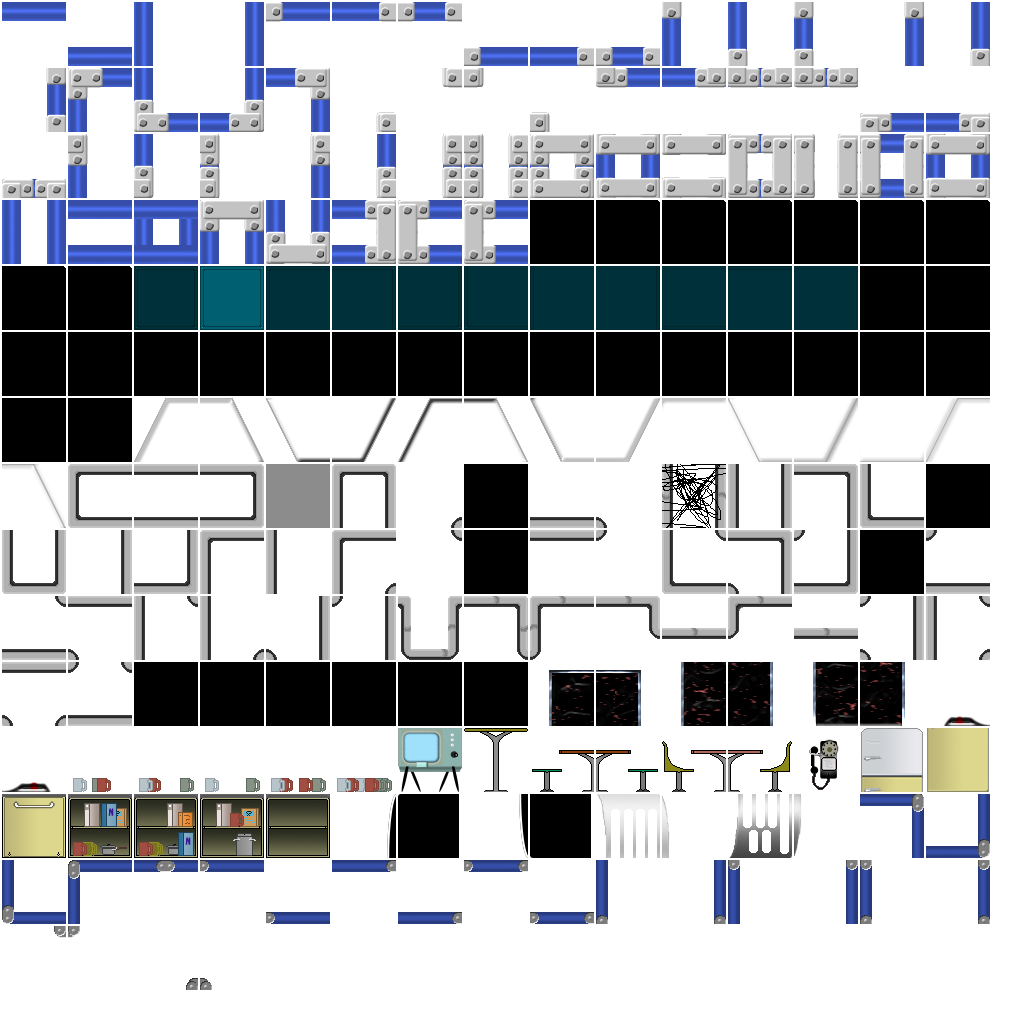
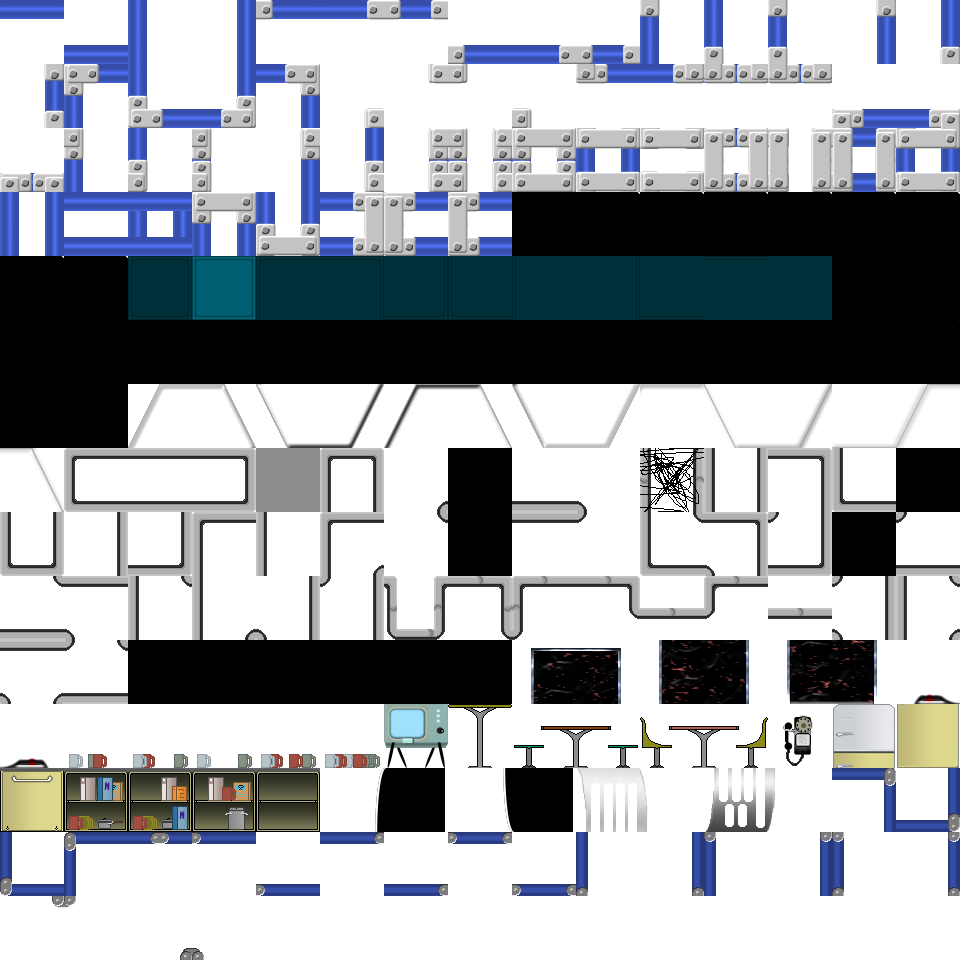
Fixes up kitchen tiles, kitchen1, lobby + trigger

diff --git a/lib/game/levels/lobby1.js b/lib/game/levels/lobby1.js
@@ -1,6 +1,6 @@
 ig.module( 'game.levels.lobby1' )
 .requires('impact.image','game.entities.player','game.entities.levelexit','game.entities.levelexit','game.entities.levelexit','game.entities.levelexit','game.entities.hurt','game.entities.trigger','game.entities.trigger','game.entities.trigger','game.entities.levelexit','game.entities.infobox','game.entities.infobox','game.entities.infobox','game.entities.infobox','game.entities.levelexit')
 .defines(function(){
-LevelLobby1=/*JSON[*/{"entities":[{"type":"EntityPlayer","x":192,"y":512},{"type":"EntityLevelexit","x":2240,"y":544,"settings":{"level":31,"size":{"x":32,"y":32}}},{"type":"EntityLevelexit","x":640,"y":544,"settings":{"level":"kitchen1","size":{"x":32,"y":32}}},{"type":"EntityLevelexit","x":1540,"y":544,"settings":{"level":21,"size":{"x":32,"y":32}}},{"type":"EntityLevelexit","x":3008,"y":1184,"settings":{"size":{"x":32,"y":32},"level":"lobby1"}},{"type":"EntityHurt","x":1496,"y":824,"settings":{"name":"pitkill"}},{"type":"EntityTrigger","x":1856,"y":576,"settings":{"size":{"x":128,"y":640},"target":{"1":"pitkill"}}},{"type":"EntityTrigger","x":3136,"y":576,"settings":{"size":{"x":128,"y":640},"target":{"1":"pitkill"}}},{"type":"EntityTrigger","x":1024,"y":576,"settings":{"size":{"x":256,"y":640},"target":{"1":"pitkill"}}},{"type":"EntityLevelexit","x":128,"y":544,"settings":{"level":"lab3","size":{"x":32,"y":32}}},{"type":"EntityInfobox","x":2752,"y":320,"settings":{"size":{"x":320,"y":256},"text":"Level 3"}},{"type":"EntityInfobox","x":512,"y":320,"settings":{"size":{"x":320,"y":256},"text":"Mess Hall"}},{"type":"EntityInfobox","x":1408,"y":320,"settings":{"size":{"x":320,"y":256},"text":"Weapons Testing"}},{"type":"EntityInfobox","x":2112,"y":320,"settings":{"size":{"x":320,"y":256},"text":"Level 2"}},{"type":"EntityLevelexit","x":2888,"y":544,"settings":{"size":{"x":32,"y":32}}}],"layer":[{"name":"main","width":60,"height":20,"linkWithCollision":false,"visible":1,"tilesetName":"media/lab-tiles.png","repeat":false,"preRender":false,"distance":"1","tilesize":64,"foreground":false,"data":[[1,2,2,2,2,2,2,2,2,2,2,2,2,2,2,2,2,2,2,3,0,0,0,0,0,0,0,0,0,0,0,0,0,0,0,0,0,0,0,0,0,0,0,0,0,0,0,0,0,0,0,0,0,0,0,0,0,0,0,0],[17,6,6,6,6,6,6,6,6,6,6,6,6,6,6,6,6,6,6,6,6,6,6,6,6,6,6,6,6,6,6,6,6,6,6,6,6,6,6,6,6,6,6,6,6,6,6,6,6,6,6,6,6,6,6,6,6,6,6,0],[17,6,6,6,6,6,6,6,6,6,6,6,6,6,6,6,6,6,6,6,6,6,6,6,6,6,6,6,6,6,6,6,6,6,6,6,6,6,6,6,6,6,6,6,6,6,6,6,6,6,6,6,6,6,6,6,6,6,6,0],[17,6,6,6,6,6,6,6,6,6,6,6,6,6,6,6,6,6,6,6,6,6,6,6,6,6,6,6,6,6,6,6,6,6,6,6,6,6,6,6,6,6,6,6,6,6,6,6,6,6,6,6,6,6,6,6,6,6,6,0],[17,6,6,6,6,6,6,6,6,6,6,6,6,6,6,6,6,6,6,6,6,6,6,6,6,6,6,6,6,6,6,6,6,6,6,6,6,6,6,6,6,6,6,6,6,6,6,6,6,6,6,6,6,6,6,6,6,6,6,0],[17,6,6,6,6,6,6,6,6,6,6,6,6,6,6,6,6,6,6,6,6,6,6,6,6,6,6,6,6,6,6,6,6,6,6,6,6,6,6,6,6,6,6,6,6,6,6,6,6,6,6,6,6,6,6,6,6,6,6,0],[17,6,6,6,6,6,6,6,6,6,6,6,6,6,6,6,6,6,6,6,6,6,6,6,6,6,6,6,6,6,6,6,6,6,6,6,6,6,6,6,6,6,6,6,6,6,6,6,6,6,6,6,6,6,6,6,6,6,6,0],[17,6,6,6,6,6,6,6,6,6,6,6,6,6,6,6,6,6,6,6,6,6,6,6,6,6,6,6,6,6,6,6,6,6,6,6,6,6,6,6,6,6,6,6,6,6,6,6,6,6,6,6,6,6,6,6,6,6,6,0],[17,6,6,6,6,6,6,6,6,6,6,6,6,6,6,6,6,6,6,6,6,6,6,6,6,6,6,6,6,6,6,6,6,6,6,6,6,6,6,6,6,6,6,6,6,6,6,6,6,6,6,6,6,6,6,6,6,6,6,0],[33,34,34,34,34,34,34,34,34,34,34,34,34,34,34,34,6,6,6,6,34,34,34,34,34,34,34,34,34,6,6,0,0,0,0,0,0,0,0,33,6,6,0,0,0,0,0,0,33,6,6,0,0,0,0,0,0,0,0,0],[0,0,0,0,0,0,0,0,0,0,0,0,0,0,0,0,6,6,6,6,0,0,0,0,0,0,0,0,0,6,6,0,0,0,0,0,0,0,0,17,6,6,0,0,0,0,0,0,17,6,6,0,0,0,0,0,0,0,0,0],[0,0,0,0,0,0,0,0,0,0,0,0,0,0,0,0,6,6,6,6,0,0,0,0,0,0,0,0,0,6,6,0,0,0,0,0,0,0,0,17,6,6,0,0,0,0,0,0,17,6,6,0,0,0,0,0,0,0,0,0],[0,0,0,0,0,0,0,0,0,0,0,0,0,0,0,0,6,6,6,6,0,0,0,0,0,0,0,0,0,6,6,0,0,0,0,0,0,0,0,17,6,6,0,0,0,0,0,0,17,6,6,0,0,0,0,0,0,0,0,0],[0,0,0,0,0,0,0,0,0,0,0,0,0,0,0,0,6,6,6,6,0,0,0,0,0,0,0,0,0,6,6,0,0,0,0,0,0,0,0,17,6,6,0,0,0,0,0,0,17,6,6,0,0,0,0,0,0,0,0,0],[0,0,0,0,0,0,0,0,0,0,0,0,0,0,0,0,6,6,6,6,0,0,0,0,0,0,0,0,0,6,6,0,0,0,0,0,0,0,0,17,6,6,0,0,0,0,0,0,17,6,6,0,0,0,0,0,0,0,0,0],[0,0,0,0,0,0,0,0,0,0,0,0,0,0,0,0,6,6,6,6,0,0,0,0,0,0,0,0,0,6,6,0,0,0,0,0,0,0,0,17,6,6,0,0,0,0,0,0,17,6,6,0,0,0,0,0,0,0,0,0],[0,0,0,0,0,0,0,0,0,0,0,0,0,0,0,0,6,6,6,6,0,0,0,0,0,0,0,0,0,6,6,0,0,0,0,0,0,0,0,17,6,6,0,0,0,0,0,0,17,6,6,0,0,0,0,0,0,0,0,0],[0,0,0,0,0,0,0,0,0,0,0,0,0,0,0,0,6,6,6,6,0,0,0,0,0,0,0,0,0,6,6,0,0,0,0,0,0,0,0,17,6,6,6,6,6,6,6,6,17,6,6,0,0,0,0,0,0,0,0,0],[0,0,0,0,0,0,0,0,0,0,0,0,0,0,0,0,6,6,6,6,0,0,0,0,0,0,0,0,0,6,6,0,0,0,0,0,0,0,0,17,6,6,6,6,6,6,6,6,17,6,6,0,0,0,0,0,0,0,0,0],[0,0,0,0,0,0,0,0,0,0,0,0,0,0,0,0,0,0,0,0,0,0,0,0,0,33,0,0,0,0,0,0,0,0,0,0,0,33,0,0,0,0,0,0,0,0,0,0,33,0,0,0,0,0,0,0,0,0,0,0]]},{"name":"collision","width":60,"height":20,"linkWithCollision":false,"visible":1,"tilesetName":"","repeat":false,"preRender":false,"distance":1,"tilesize":64,"foreground":false,"data":[[1,1,1,1,1,1,1,1,1,1,1,1,1,1,1,1,1,1,1,1,1,1,1,1,1,1,1,1,1,1,1,1,1,1,1,1,1,1,1,1,1,1,1,1,1,1,1,1,1,1,1,1,1,1,1,1,1,1,1,1],[1,0,0,0,0,0,0,0,0,0,0,0,0,0,0,0,0,0,0,0,0,0,0,0,0,0,0,0,0,0,0,0,0,0,0,0,0,0,0,0,0,0,0,0,0,0,0,0,0,0,0,0,0,0,0,0,0,0,0,1],[1,0,0,0,0,0,0,0,0,0,0,0,0,0,0,0,0,0,0,0,0,0,0,0,0,0,0,0,0,0,0,0,0,0,0,0,0,0,0,0,0,0,0,0,0,0,0,0,0,0,0,0,0,0,0,0,0,0,0,1],[1,0,0,0,0,0,0,0,0,0,0,0,0,0,0,0,0,0,0,0,0,0,0,0,0,0,0,0,0,0,0,0,0,0,0,0,0,0,0,0,0,0,0,0,0,0,0,0,0,0,0,0,0,0,0,0,0,0,0,1],[1,0,0,0,0,0,0,0,0,0,0,0,0,0,0,0,0,0,0,0,0,0,0,0,0,0,0,0,0,0,0,0,0,0,0,0,0,0,0,0,0,0,0,0,0,0,0,0,0,0,0,0,0,0,0,0,0,0,0,1],[1,0,0,0,0,0,0,0,0,0,0,0,0,0,0,0,0,0,0,0,0,0,0,0,0,0,0,0,0,0,0,0,0,0,0,0,0,0,0,0,0,0,0,0,0,0,0,0,0,0,0,0,0,0,0,0,0,0,0,1],[1,0,0,0,0,0,0,0,0,0,0,0,0,0,0,0,0,0,0,0,0,0,0,0,0,0,0,0,0,0,0,0,0,0,0,0,0,0,0,0,0,0,0,0,0,0,0,0,0,0,0,0,0,0,0,0,0,0,0,1],[1,0,0,0,0,0,0,0,0,0,0,0,0,0,0,0,0,0,0,0,0,0,0,0,0,0,0,0,0,0,0,0,0,0,0,0,0,0,0,0,0,0,0,0,0,0,0,0,0,0,0,0,0,0,0,0,0,0,0,1],[1,0,0,0,0,0,0,0,0,0,0,0,0,0,0,0,0,0,0,0,0,0,0,0,0,0,0,0,0,0,0,0,0,0,0,0,0,0,0,0,0,0,0,0,0,0,0,0,0,0,0,0,0,0,0,0,0,0,0,1],[1,1,1,1,1,1,1,1,1,1,1,1,1,1,1,1,0,0,0,0,1,1,1,1,1,1,1,1,1,0,0,1,1,1,1,1,1,1,1,1,0,0,1,1,1,1,1,1,1,0,0,1,1,1,1,1,1,1,1,1],[0,0,0,0,0,0,0,0,0,0,0,0,0,0,0,1,0,0,0,0,1,0,0,0,0,0,0,0,1,0,0,1,0,0,0,0,0,0,0,1,0,0,1,0,0,0,0,0,1,0,0,1,0,0,0,0,0,0,0,0],[0,0,0,0,0,0,0,0,0,0,0,0,0,0,0,1,0,0,0,0,1,0,0,0,0,0,0,0,1,0,0,1,0,0,0,0,0,0,0,1,0,0,1,0,0,0,0,0,1,0,0,1,0,0,0,0,0,0,0,0],[0,0,0,0,0,0,0,0,0,0,0,0,0,0,0,1,0,0,0,0,1,0,0,0,0,0,0,0,1,0,0,1,0,0,0,0,0,0,0,1,0,0,1,0,0,0,0,0,1,0,0,1,0,0,0,0,0,0,0,0],[0,0,0,0,0,0,0,0,0,0,0,0,0,0,0,1,0,0,0,0,1,0,0,0,0,0,0,0,1,0,0,1,0,0,0,0,0,0,0,1,0,0,1,0,0,0,0,0,1,0,0,1,0,0,0,0,0,0,0,0],[0,0,0,0,0,0,0,0,0,0,0,0,0,0,0,1,0,0,0,0,1,0,0,0,0,0,0,0,1,0,0,1,0,0,0,0,0,0,0,1,0,0,1,0,0,0,0,0,1,0,0,1,0,0,0,0,0,0,0,0],[0,0,0,0,0,0,0,0,0,0,0,0,0,0,0,1,0,0,0,0,1,0,0,0,0,0,0,0,1,0,0,1,0,0,0,0,0,0,0,1,0,0,1,0,0,0,0,0,1,0,0,1,0,0,0,0,0,0,0,0],[0,0,0,0,0,0,0,0,0,0,0,0,0,0,0,1,0,0,0,0,1,0,0,0,0,0,0,0,1,0,0,1,0,0,0,0,0,0,0,1,0,0,1,1,1,1,1,1,1,0,0,1,0,0,0,0,0,0,0,0],[0,0,0,0,0,0,0,0,0,0,0,0,0,0,0,1,0,0,0,0,1,0,0,0,0,0,0,0,1,0,0,1,0,0,0,0,0,0,0,1,0,0,0,0,0,0,0,0,1,0,0,1,0,0,0,0,0,0,0,0],[0,0,0,0,0,0,0,0,0,0,0,0,0,0,0,1,0,0,0,0,1,0,0,0,0,0,0,0,1,0,0,1,0,0,0,0,0,0,0,1,0,0,0,0,0,0,0,0,1,0,0,1,0,0,0,0,0,0,0,0],[0,0,0,0,0,0,0,0,0,0,0,0,0,0,0,1,1,1,1,1,1,0,0,0,0,0,0,0,1,1,1,1,0,0,0,0,0,0,0,1,1,1,1,1,1,1,1,1,1,1,1,1,0,0,0,0,0,0,0,0]]},{"name":"decoration","width":30,"height":20,"linkWithCollision":false,"visible":true,"tilesetName":"media/lab-tiles.png","repeat":false,"preRender":false,"distance":"1","tilesize":64,"foreground":false,"data":[[0,0,0,0,0,0,0,0,0,0,0,0,0,0,0,0,0,0,0,0,0,0,0,0,0,0,0,0,0,0],[0,0,0,0,0,0,0,0,0,0,0,0,0,0,0,0,0,0,0,0,0,0,0,0,0,0,0,0,0,0],[0,0,0,0,0,0,0,0,0,0,0,0,0,0,0,0,0,0,0,0,0,0,0,0,0,0,0,0,0,0],[0,0,0,0,0,0,0,0,0,0,0,0,0,0,0,0,0,0,0,0,0,0,0,0,0,0,0,0,0,0],[0,0,0,0,0,0,0,0,0,0,0,0,0,0,0,0,0,0,0,0,0,0,0,0,0,0,0,0,0,0],[0,0,0,0,0,0,0,0,0,0,0,0,0,0,0,0,0,0,0,0,0,0,0,0,0,0,0,0,0,0],[0,0,0,0,0,0,0,0,0,0,0,0,0,0,0,0,0,0,0,0,0,0,0,0,0,0,0,0,0,0],[0,0,0,0,0,0,0,0,0,0,0,0,0,0,0,0,0,0,0,0,0,0,0,0,0,0,0,0,0,0],[0,0,4,0,0,0,0,0,0,0,4,0,0,0,0,0,0,0,0,0,0,0,0,0,4,0,0,0,0,0],[0,0,0,0,0,0,0,0,0,0,0,0,0,0,0,0,0,0,0,0,0,0,0,0,0,0,0,0,0,0],[0,0,0,0,0,0,0,0,0,0,0,0,0,0,0,0,0,0,0,0,0,0,0,0,0,0,0,0,0,0],[0,0,0,0,0,0,0,0,0,0,0,0,0,0,0,0,0,0,0,0,0,0,0,0,0,0,0,0,0,0],[0,0,0,0,0,0,0,0,0,0,0,0,0,0,0,0,0,0,0,0,0,0,0,0,0,0,0,0,0,0],[0,0,0,0,0,0,0,0,0,0,0,0,0,0,0,0,0,0,0,0,0,0,0,0,0,0,0,0,0,0],[0,0,0,0,0,0,0,0,0,0,0,0,0,0,0,0,0,0,0,0,0,0,0,0,0,0,0,0,0,0],[0,0,0,0,0,0,0,0,0,0,0,0,0,0,0,0,0,0,0,0,0,0,0,0,0,0,0,0,0,0],[0,0,0,0,0,0,0,0,0,0,0,0,0,0,0,0,0,0,0,0,0,0,0,0,0,0,0,0,0,0],[0,0,0,0,0,0,0,0,0,0,0,0,0,0,0,0,0,0,0,0,0,0,0,0,0,0,0,0,0,0],[0,0,0,0,0,0,0,0,0,0,0,0,0,0,0,0,0,0,0,0,0,0,0,0,0,0,0,0,0,0],[0,0,0,0,0,0,0,0,0,0,0,0,0,0,0,0,0,0,0,0,0,0,0,0,0,0,0,0,0,0]]}]}/*]JSON*/;
+LevelLobby1=/*JSON[*/{"entities":[{"type":"EntityPlayer","x":212,"y":528},{"type":"EntityLevelexit","x":2240,"y":544,"settings":{"level":31,"size":{"x":32,"y":32}}},{"type":"EntityLevelexit","x":640,"y":544,"settings":{"level":"kitchen1","size":{"x":32,"y":32}}},{"type":"EntityLevelexit","x":1536,"y":544,"settings":{"level":21,"size":{"x":32,"y":32}}},{"type":"EntityLevelexit","x":3008,"y":1184,"settings":{"size":{"x":32,"y":32},"level":"lobby1"}},{"type":"EntityHurt","x":1496,"y":824,"settings":{"name":"pitkill"}},{"type":"EntityTrigger","x":1856,"y":768,"settings":{"size":{"x":128,"y":448},"target":{"1":"pitkill"}}},{"type":"EntityTrigger","x":3136,"y":768,"settings":{"size":{"x":128,"y":448},"target":{"1":"pitkill"}}},{"type":"EntityTrigger","x":1024,"y":768,"settings":{"size":{"x":256,"y":448},"target":{"1":"pitkill"}}},{"type":"EntityLevelexit","x":128,"y":544,"settings":{"level":"lab3","size":{"x":32,"y":32}}},{"type":"EntityInfobox","x":2752,"y":320,"settings":{"size":{"x":320,"y":256},"text":"Level 3"}},{"type":"EntityInfobox","x":512,"y":320,"settings":{"size":{"x":320,"y":256},"text":"Mess Hall"}},{"type":"EntityInfobox","x":1408,"y":320,"settings":{"size":{"x":320,"y":256},"text":"Weapons Testing"}},{"type":"EntityInfobox","x":2112,"y":320,"settings":{"size":{"x":320,"y":256},"text":"Level 2"}},{"type":"EntityLevelexit","x":2888,"y":544,"settings":{"size":{"x":32,"y":32}}}],"layer":[{"name":"main","width":60,"height":20,"linkWithCollision":false,"visible":1,"tilesetName":"media/lab-tiles.png","repeat":false,"preRender":false,"distance":"1","tilesize":64,"foreground":false,"data":[[1,2,2,2,2,2,2,2,2,2,2,2,2,2,2,2,2,2,2,3,0,0,0,0,0,0,0,0,0,0,0,0,0,0,0,0,0,0,0,0,0,0,0,0,0,0,0,0,0,0,0,0,0,0,0,0,0,0,0,0],[17,6,6,6,6,6,6,6,6,6,6,6,6,6,6,6,6,6,6,6,6,6,6,6,6,6,6,6,6,6,6,6,6,6,6,6,6,6,6,6,6,6,6,6,6,6,6,6,6,6,6,6,6,6,6,6,6,6,6,0],[17,6,6,6,6,6,6,6,6,6,6,6,6,6,6,6,6,6,6,6,6,6,6,6,6,6,6,6,6,6,6,6,6,6,6,6,6,6,6,6,6,6,6,6,6,6,6,6,6,6,6,6,6,6,6,6,6,6,6,0],[17,6,6,6,6,6,6,6,6,6,6,6,6,6,6,6,6,6,6,6,6,6,6,6,6,6,6,6,6,6,6,6,6,6,6,6,6,6,6,6,6,6,6,6,6,6,6,6,6,6,6,6,6,6,6,6,6,6,6,0],[17,6,6,6,6,6,6,6,6,6,6,6,6,6,6,6,6,6,6,6,6,6,6,6,6,6,6,6,6,6,6,6,6,6,6,6,6,6,6,6,6,6,6,6,6,6,6,6,6,6,6,6,6,6,6,6,6,6,6,0],[17,6,6,6,6,6,6,6,6,6,6,6,6,6,6,6,6,6,6,6,6,6,6,6,6,6,6,6,6,6,6,6,6,6,6,6,6,6,6,6,6,6,6,6,6,6,6,6,6,6,6,6,6,6,6,6,6,6,6,0],[17,6,6,6,6,6,6,6,6,6,6,6,6,6,6,6,6,6,6,6,6,6,6,6,6,6,6,6,6,6,6,6,6,6,6,6,6,6,6,6,6,6,6,6,6,6,6,6,6,6,6,6,6,6,6,6,6,6,6,0],[17,6,6,6,6,6,6,6,6,6,6,6,6,6,6,6,6,6,6,6,6,6,6,6,6,6,6,6,6,6,6,6,6,6,6,6,6,6,6,6,6,6,6,6,6,6,6,6,6,6,6,6,6,6,6,6,6,6,6,0],[17,6,6,6,6,6,6,6,6,6,6,6,6,6,6,6,6,6,6,6,6,6,6,6,6,6,6,6,6,6,6,6,6,6,6,6,6,6,6,6,6,6,6,6,6,6,6,6,6,6,6,6,6,6,6,6,6,6,6,0],[33,34,34,34,34,34,34,34,34,34,34,34,34,34,34,34,6,6,6,6,34,34,34,34,34,34,34,34,34,6,6,0,0,0,0,0,0,0,0,33,6,6,0,0,0,0,0,0,33,6,6,0,0,0,0,0,0,0,0,0],[0,0,0,0,0,0,0,0,0,0,0,0,0,0,0,0,6,6,6,6,0,0,0,0,0,0,0,0,0,6,6,0,0,0,0,0,0,0,0,17,6,6,0,0,0,0,0,0,17,6,6,0,0,0,0,0,0,0,0,0],[0,0,0,0,0,0,0,0,0,0,0,0,0,0,0,0,6,6,6,6,0,0,0,0,0,0,0,0,0,6,6,0,0,0,0,0,0,0,0,17,6,6,0,0,0,0,0,0,17,6,6,0,0,0,0,0,0,0,0,0],[0,0,0,0,0,0,0,0,0,0,0,0,0,0,0,0,6,6,6,6,0,0,0,0,0,0,0,0,0,6,6,0,0,0,0,0,0,0,0,17,6,6,0,0,0,0,0,0,17,6,6,0,0,0,0,0,0,0,0,0],[0,0,0,0,0,0,0,0,0,0,0,0,0,0,0,0,6,6,6,6,0,0,0,0,0,0,0,0,0,6,6,0,0,0,0,0,0,0,0,17,6,6,0,0,0,0,0,0,17,6,6,0,0,0,0,0,0,0,0,0],[0,0,0,0,0,0,0,0,0,0,0,0,0,0,0,0,6,6,6,6,0,0,0,0,0,0,0,0,0,6,6,0,0,0,0,0,0,0,0,17,6,6,0,0,0,0,0,0,17,6,6,0,0,0,0,0,0,0,0,0],[0,0,0,0,0,0,0,0,0,0,0,0,0,0,0,0,6,6,6,6,0,0,0,0,0,0,0,0,0,6,6,0,0,0,0,0,0,0,0,17,6,6,0,0,0,0,0,0,17,6,6,0,0,0,0,0,0,0,0,0],[0,0,0,0,0,0,0,0,0,0,0,0,0,0,0,0,6,6,6,6,0,0,0,0,0,0,0,0,0,6,6,0,0,0,0,0,0,0,0,17,6,6,0,0,0,0,0,0,17,6,6,0,0,0,0,0,0,0,0,0],[0,0,0,0,0,0,0,0,0,0,0,0,0,0,0,0,6,6,6,6,0,0,0,0,0,0,0,0,0,6,6,0,0,0,0,0,0,0,0,17,6,6,6,6,6,6,6,6,17,6,6,0,0,0,0,0,0,0,0,0],[0,0,0,0,0,0,0,0,0,0,0,0,0,0,0,0,6,6,6,6,0,0,0,0,0,0,0,0,0,6,6,0,0,0,0,0,0,0,0,17,6,6,6,6,6,6,6,6,17,6,6,0,0,0,0,0,0,0,0,0],[0,0,0,0,0,0,0,0,0,0,0,0,0,0,0,0,0,0,0,0,0,0,0,0,0,33,0,0,0,0,0,0,0,0,0,0,0,33,0,0,0,0,0,0,0,0,0,0,33,0,0,0,0,0,0,0,0,0,0,0]]},{"name":"collision","width":60,"height":20,"linkWithCollision":false,"visible":1,"tilesetName":"","repeat":false,"preRender":false,"distance":1,"tilesize":64,"foreground":false,"data":[[1,1,1,1,1,1,1,1,1,1,1,1,1,1,1,1,1,1,1,1,1,1,1,1,1,1,1,1,1,1,1,1,1,1,1,1,1,1,1,1,1,1,1,1,1,1,1,1,1,1,1,1,1,1,1,1,1,1,1,1],[1,0,0,0,0,0,0,0,0,0,0,0,0,0,0,0,0,0,0,0,0,0,0,0,0,0,0,0,0,0,0,0,0,0,0,0,0,0,0,0,0,0,0,0,0,0,0,0,0,0,0,0,0,0,0,0,0,0,0,1],[1,0,0,0,0,0,0,0,0,0,0,0,0,0,0,0,0,0,0,0,0,0,0,0,0,0,0,0,0,0,0,0,0,0,0,0,0,0,0,0,0,0,0,0,0,0,0,0,0,0,0,0,0,0,0,0,0,0,0,1],[1,0,0,0,0,0,0,0,0,0,0,0,0,0,0,0,0,0,0,0,0,0,0,0,0,0,0,0,0,0,0,0,0,0,0,0,0,0,0,0,0,0,0,0,0,0,0,0,0,0,0,0,0,0,0,0,0,0,0,1],[1,0,0,0,0,0,0,0,0,0,0,0,0,0,0,0,0,0,0,0,0,0,0,0,0,0,0,0,0,0,0,0,0,0,0,0,0,0,0,0,0,0,0,0,0,0,0,0,0,0,0,0,0,0,0,0,0,0,0,1],[1,0,0,0,0,0,0,0,0,0,0,0,0,0,0,0,0,0,0,0,0,0,0,0,0,0,0,0,0,0,0,0,0,0,0,0,0,0,0,0,0,0,0,0,0,0,0,0,0,0,0,0,0,0,0,0,0,0,0,1],[1,0,0,0,0,0,0,0,0,0,0,0,0,0,0,0,0,0,0,0,0,0,0,0,0,0,0,0,0,0,0,0,0,0,0,0,0,0,0,0,0,0,0,0,0,0,0,0,0,0,0,0,0,0,0,0,0,0,0,1],[1,0,0,0,0,0,0,0,0,0,0,0,0,0,0,0,0,0,0,0,0,0,0,0,0,0,0,0,0,0,0,0,0,0,0,0,0,0,0,0,0,0,0,0,0,0,0,0,0,0,0,0,0,0,0,0,0,0,0,1],[1,0,0,0,0,0,0,0,0,0,0,0,0,0,0,0,0,0,0,0,0,0,0,0,0,0,0,0,0,0,0,0,0,0,0,0,0,0,0,0,0,0,0,0,0,0,0,0,0,0,0,0,0,0,0,0,0,0,0,1],[1,1,1,1,1,1,1,1,1,1,1,1,1,1,1,1,0,0,0,0,1,1,1,1,1,1,1,1,1,0,0,1,1,1,1,1,1,1,1,1,0,0,1,1,1,1,1,1,1,0,0,1,1,1,1,1,1,1,1,1],[0,0,0,0,0,0,0,0,0,0,0,0,0,0,0,1,0,0,0,0,1,0,0,0,0,0,0,0,1,0,0,1,0,0,0,0,0,0,0,1,0,0,1,0,0,0,0,0,1,0,0,1,0,0,0,0,0,0,0,0],[0,0,0,0,0,0,0,0,0,0,0,0,0,0,0,1,0,0,0,0,1,0,0,0,0,0,0,0,1,0,0,1,0,0,0,0,0,0,0,1,0,0,1,0,0,0,0,0,1,0,0,1,0,0,0,0,0,0,0,0],[0,0,0,0,0,0,0,0,0,0,0,0,0,0,0,1,0,0,0,0,1,0,0,0,0,0,0,0,1,0,0,1,0,0,0,0,0,0,0,1,0,0,1,0,0,0,0,0,1,0,0,1,0,0,0,0,0,0,0,0],[0,0,0,0,0,0,0,0,0,0,0,0,0,0,0,1,0,0,0,0,1,0,0,0,0,0,0,0,1,0,0,1,0,0,0,0,0,0,0,1,0,0,1,0,0,0,0,0,1,0,0,1,0,0,0,0,0,0,0,0],[0,0,0,0,0,0,0,0,0,0,0,0,0,0,0,1,0,0,0,0,1,0,0,0,0,0,0,0,1,0,0,1,0,0,0,0,0,0,0,1,0,0,1,0,0,0,0,0,1,0,0,1,0,0,0,0,0,0,0,0],[0,0,0,0,0,0,0,0,0,0,0,0,0,0,0,1,0,0,0,0,1,0,0,0,0,0,0,0,1,0,0,1,0,0,0,0,0,0,0,1,0,0,1,0,0,0,0,0,1,0,0,1,0,0,0,0,0,0,0,0],[0,0,0,0,0,0,0,0,0,0,0,0,0,0,0,1,0,0,0,0,1,0,0,0,0,0,0,0,1,0,0,1,0,0,0,0,0,0,0,1,0,0,1,1,1,1,1,1,1,0,0,1,0,0,0,0,0,0,0,0],[0,0,0,0,0,0,0,0,0,0,0,0,0,0,0,1,0,0,0,0,1,0,0,0,0,0,0,0,1,0,0,1,0,0,0,0,0,0,0,1,0,0,0,0,0,0,0,0,1,0,0,1,0,0,0,0,0,0,0,0],[0,0,0,0,0,0,0,0,0,0,0,0,0,0,0,1,0,0,0,0,1,0,0,0,0,0,0,0,1,0,0,1,0,0,0,0,0,0,0,1,0,0,0,0,0,0,0,0,1,0,0,1,0,0,0,0,0,0,0,0],[0,0,0,0,0,0,0,0,0,0,0,0,0,0,0,1,1,1,1,1,1,0,0,0,0,0,0,0,1,1,1,1,0,0,0,0,0,0,0,1,1,1,1,1,1,1,1,1,1,1,1,1,0,0,0,0,0,0,0,0]]},{"name":"decoration","width":30,"height":20,"linkWithCollision":false,"visible":1,"tilesetName":"media/lab-tiles.png","repeat":false,"preRender":false,"distance":"1","tilesize":64,"foreground":false,"data":[[0,0,0,0,0,0,0,0,0,0,0,0,0,0,0,0,0,0,0,0,0,0,0,0,0,0,0,0,0,0],[0,0,0,0,0,0,0,0,0,0,0,0,0,0,0,0,0,0,0,0,0,0,0,0,0,0,0,0,0,0],[0,0,0,0,0,0,0,0,0,0,0,0,0,0,0,0,0,0,0,0,0,0,0,0,0,0,0,0,0,0],[0,0,0,0,0,0,0,0,0,0,0,0,0,0,0,0,0,0,0,0,0,0,0,0,0,0,0,0,0,0],[0,0,0,0,0,0,0,0,0,0,0,0,0,0,0,0,0,0,0,0,0,0,0,0,0,0,0,0,0,0],[0,0,0,0,0,0,0,0,0,0,0,0,0,0,0,0,0,0,0,0,0,0,0,0,0,0,0,0,0,0],[0,0,0,0,0,0,0,0,0,0,0,0,0,0,0,0,0,0,0,0,0,0,0,0,0,0,0,0,0,0],[0,0,0,0,0,0,0,0,0,0,0,0,0,0,0,0,0,0,0,0,0,0,0,0,0,0,0,0,0,0],[0,0,4,0,0,0,0,0,0,0,4,0,0,0,0,0,0,0,0,0,0,0,0,0,4,0,0,0,0,0],[0,0,0,0,0,0,0,0,0,0,0,0,0,0,0,0,0,0,0,0,0,0,0,0,0,0,0,0,0,0],[0,0,0,0,0,0,0,0,0,0,0,0,0,0,0,0,0,0,0,0,0,0,0,0,0,0,0,0,0,0],[0,0,0,0,0,0,0,0,0,0,0,0,0,0,0,0,0,0,0,0,0,0,0,0,0,0,0,0,0,0],[0,0,0,0,0,0,0,0,0,0,0,0,0,0,0,0,0,0,0,0,0,0,0,0,0,0,0,0,0,0],[0,0,0,0,0,0,0,0,0,0,0,0,0,0,0,0,0,0,0,0,0,0,0,0,0,0,0,0,0,0],[0,0,0,0,0,0,0,0,0,0,0,0,0,0,0,0,0,0,0,0,0,0,0,0,0,0,0,0,0,0],[0,0,0,0,0,0,0,0,0,0,0,0,0,0,0,0,0,0,0,0,0,0,0,0,0,0,0,0,0,0],[0,0,0,0,0,0,0,0,0,0,0,0,0,0,0,0,0,0,0,0,0,0,0,0,0,0,0,0,0,0],[0,0,0,0,0,0,0,0,0,0,0,0,0,0,0,0,0,0,0,0,0,0,0,0,0,0,0,0,0,0],[0,0,0,0,0,0,0,0,0,0,0,0,0,0,0,0,0,0,0,0,0,0,0,0,0,0,0,0,0,0],[0,0,0,0,0,0,0,0,0,0,0,0,0,0,0,0,0,0,0,0,0,0,0,0,0,0,0,0,0,0]]}]}/*]JSON*/;
 LevelLobby1Resources=[new ig.Image('media/lab-tiles.png'), new ig.Image('media/lab-tiles.png')];
 });

diff --git a/lib/game/levels/kitchen1.js b/lib/game/levels/kitchen1.js
@@ -1,6 +1,6 @@
 ig.module( 'game.levels.kitchen1' )
 .requires('impact.image','game.entities.player','game.entities.levelexit','game.entities.enemy-zombie','game.entities.enemy-zombie','game.entities.enemy-zombie','game.entities.levelexit')
 .defines(function(){
-LevelKitchen1=/*JSON[*/{"entities":[{"type":"EntityPlayer","x":100,"y":116},{"type":"EntityLevelexit","x":48,"y":80,"settings":{"level":"lobby1","size":{"x":64,"y":64}}},{"type":"EntityEnemyZombie","x":348,"y":130},{"type":"EntityEnemyZombie","x":416,"y":130},{"type":"EntityEnemyZombie","x":288,"y":130},{"type":"EntityLevelexit","x":544,"y":112,"settings":{"level":"kitchen2","size":{"x":32,"y":32}}}],"layer":[{"name":"main","width":40,"height":10,"linkWithCollision":false,"visible":1,"tilesetName":"media/kitchen-tiles.png","repeat":false,"preRender":false,"distance":"1","tilesize":16,"foreground":false,"data":[[22,22,22,22,22,22,22,22,22,22,22,22,22,22,22,22,22,22,22,22,22,22,22,22,22,22,22,22,22,22,22,22,22,22,22,22,22,22,22,22],[22,22,22,22,22,22,22,22,22,22,22,22,22,22,22,22,22,22,22,22,22,22,22,22,22,22,22,22,22,22,22,22,22,22,22,22,22,22,22,22],[22,22,21,21,21,21,21,21,21,21,21,21,21,21,21,21,21,21,21,21,21,21,21,21,21,21,21,21,21,21,21,21,21,21,21,21,21,21,22,22],[22,22,21,21,21,21,21,21,21,21,21,21,21,21,21,21,21,21,21,21,21,21,21,21,21,21,21,21,21,21,21,21,21,21,21,21,21,21,22,22],[22,22,21,21,21,21,21,21,21,21,21,21,21,21,21,21,21,21,21,21,21,21,21,21,21,21,21,21,21,21,21,21,21,21,21,21,21,21,22,22],[22,22,21,21,21,21,21,21,21,21,21,21,21,21,21,21,21,21,21,21,21,21,21,21,21,21,21,21,21,21,21,21,21,21,21,21,21,21,22,22],[22,22,21,21,21,21,21,21,21,21,21,21,21,21,21,21,21,21,21,21,21,21,21,21,21,21,21,21,21,21,21,21,21,21,21,21,21,21,22,22],[22,22,21,21,21,21,21,21,21,21,21,21,21,21,21,21,21,21,21,21,21,21,21,21,21,21,21,21,21,21,21,21,21,21,21,21,21,21,22,22],[22,22,21,21,21,21,21,21,21,21,21,21,21,21,21,21,21,21,21,21,21,21,21,21,21,21,21,21,21,21,21,21,21,21,21,21,21,21,22,22],[22,22,22,22,22,22,22,22,22,22,22,22,22,22,22,22,22,22,22,22,22,22,22,22,22,22,22,22,22,22,22,22,22,22,22,22,22,22,22,22]]},{"name":"collision","width":20,"height":10,"linkWithCollision":false,"visible":0,"tilesetName":"","repeat":false,"preRender":false,"distance":1,"tilesize":32,"foreground":false,"data":[[1,1,1,1,1,1,1,1,1,1,1,1,1,1,1,1,1,1,1,1],[1,0,0,0,0,0,0,0,0,0,0,0,0,0,0,0,0,0,0,1],[1,0,0,0,0,0,0,0,0,0,0,0,0,0,0,0,0,0,0,1],[1,0,0,0,0,0,0,0,0,0,0,0,0,0,0,0,0,0,0,1],[1,0,0,0,0,0,0,0,0,0,0,0,0,0,0,0,0,0,0,1],[1,0,0,0,0,0,0,0,0,0,0,0,0,0,0,0,0,0,0,1],[1,0,0,0,0,0,0,0,0,0,0,0,0,0,0,0,0,0,0,1],[1,0,0,0,0,0,0,0,0,0,0,0,0,0,0,0,0,0,0,1],[1,0,0,0,0,0,0,0,0,0,0,0,0,0,0,0,0,0,0,1],[1,1,1,1,1,1,1,1,1,1,1,1,1,1,1,1,1,1,1,1]]},{"name":"decoration","width":40,"height":10,"linkWithCollision":false,"visible":1,"tilesetName":"media/kitchen-tiles.png","repeat":false,"preRender":false,"distance":"1","tilesize":16,"foreground":false,"data":[[0,0,0,0,0,0,0,0,0,0,0,0,0,0,0,0,0,0,0,0,0,0,0,0,0,0,0,0,0,0,0,0,0,0,0,0,0,0,0,0],[0,0,0,0,0,0,0,0,0,0,0,0,0,0,0,0,0,0,0,0,0,0,0,0,0,0,0,0,0,0,0,0,0,0,0,0,0,0,0,0],[0,0,0,0,0,0,0,0,0,0,0,0,0,0,0,0,0,0,0,0,0,0,0,0,0,0,0,0,0,0,0,0,0,0,0,0,0,0,0,0],[0,0,0,0,0,0,0,0,0,0,0,0,0,0,0,0,0,0,0,0,0,0,0,0,0,0,0,0,0,0,0,0,0,0,0,0,0,0,0,0],[0,0,0,0,0,0,0,0,0,0,0,0,0,0,0,0,0,0,0,0,0,0,0,0,0,0,0,0,0,0,0,0,0,0,0,0,0,0,0,0],[0,0,0,0,0,0,0,0,0,0,0,0,0,0,0,0,0,0,0,0,0,0,0,0,0,0,0,0,0,0,0,0,0,0,0,0,0,0,0,0],[0,0,0,0,0,0,0,0,0,0,0,0,20,17,18,20,19,0,0,0,0,0,0,0,0,0,0,0,0,0,0,0,0,0,0,0,0,0,0,0],[0,0,0,0,0,0,0,0,0,0,0,0,7,0,0,0,0,0,0,0,0,13,0,0,0,0,0,178,0,0,0,0,0,0,0,0,0,0,0,0],[0,0,0,0,0,0,0,0,174,9,10,0,16,14,14,14,14,0,11,12,177,0,0,0,0,0,0,0,0,0,0,0,0,0,0,0,0,0,0,0],[0,0,0,0,0,0,0,0,0,0,0,0,0,0,0,0,0,0,0,0,0,0,0,0,0,0,0,0,0,0,0,0,0,0,0,0,0,0,0,0]]}]}/*]JSON*/;
+LevelKitchen1=/*JSON[*/{"entities":[{"type":"EntityPlayer","x":196,"y":528},{"type":"EntityLevelexit","x":96,"y":512,"settings":{"level":"lobby1","size":{"x":64,"y":64}}},{"type":"EntityEnemyZombie","x":1352,"y":514},{"type":"EntityEnemyZombie","x":1232,"y":502},{"type":"EntityEnemyZombie","x":1400,"y":538},{"type":"EntityLevelexit","x":2368,"y":544,"settings":{"level":"kitchen2","size":{"x":32,"y":32}}}],"layer":[{"name":"main","width":40,"height":10,"linkWithCollision":false,"visible":1,"tilesetName":"media/kitchen-tiles.png","repeat":false,"preRender":false,"distance":"1","tilesize":64,"foreground":false,"data":[[0,0,0,0,0,0,0,0,0,0,0,0,0,0,0,0,0,0,0,0,0,0,0,0,0,0,0,0,0,0,0,0,0,0,0,0,0,0,0,0],[0,110,110,110,110,110,110,110,110,110,110,110,110,110,110,110,110,110,110,110,110,110,110,110,110,110,110,110,110,110,110,110,110,110,110,110,110,110,110,0],[0,110,110,110,110,110,110,110,110,110,110,110,110,110,110,110,110,110,110,110,110,110,110,110,110,110,110,110,110,110,110,110,110,110,110,110,110,110,110,0],[0,110,110,110,110,110,110,110,110,110,110,110,110,110,110,110,110,110,110,110,110,110,110,110,110,110,110,110,110,110,110,110,110,110,110,110,110,110,110,0],[0,110,110,110,110,110,110,110,110,110,110,110,110,110,110,110,110,110,110,110,110,110,110,110,110,110,110,110,110,110,110,110,110,110,110,110,110,110,110,0],[0,110,110,110,110,110,110,110,110,110,110,110,110,110,110,110,110,110,110,110,110,110,110,110,110,110,110,110,110,110,110,110,110,110,110,110,110,110,110,0],[0,110,110,110,110,110,110,110,110,110,110,110,110,110,110,110,110,110,110,110,110,110,110,110,110,110,110,110,110,110,110,110,110,110,110,110,110,110,110,0],[0,110,110,110,110,110,110,110,110,110,110,110,110,110,110,110,110,110,110,110,110,110,110,110,110,110,110,110,110,110,110,110,110,110,110,110,110,110,110,0],[0,110,110,110,110,110,110,110,110,110,110,110,110,110,110,110,110,110,110,110,110,110,110,110,110,110,110,110,110,110,110,110,110,110,110,110,110,110,110,0],[0,0,0,0,0,0,0,0,0,0,0,0,0,0,0,0,0,0,0,0,0,0,0,0,0,0,0,0,0,0,0,0,0,0,0,0,0,0,0,0]]},{"name":"collision","width":40,"height":10,"linkWithCollision":false,"visible":1,"tilesetName":"","repeat":false,"preRender":false,"distance":1,"tilesize":64,"foreground":false,"data":[[1,1,1,1,1,1,1,1,1,1,1,1,1,1,1,1,1,1,1,1,1,1,1,1,1,1,1,1,1,1,1,1,1,1,1,1,1,1,1,1],[1,0,0,0,0,0,0,0,0,0,0,0,0,0,0,0,0,0,0,0,0,0,0,0,0,0,0,0,0,0,0,0,0,0,0,0,0,0,0,1],[1,0,0,0,0,0,0,0,0,0,0,0,0,0,0,0,0,0,0,0,0,0,0,0,0,0,0,0,0,0,0,0,0,0,0,0,0,0,0,1],[1,0,0,0,0,0,0,0,0,0,0,0,0,0,0,0,0,0,0,0,0,0,0,0,0,0,0,0,0,0,0,0,0,0,0,0,0,0,0,1],[1,0,0,0,0,0,0,0,0,0,0,0,0,0,0,0,0,0,0,0,0,0,0,0,0,0,0,0,0,0,0,0,0,0,0,0,0,0,0,1],[1,0,0,0,0,0,0,0,0,0,0,0,0,0,0,0,0,0,0,0,0,0,0,0,0,0,0,0,0,0,0,0,0,0,0,0,0,0,0,1],[1,0,0,0,0,0,0,0,0,0,0,0,0,0,0,0,0,0,0,0,0,0,0,0,0,0,0,0,0,0,0,0,0,0,0,0,0,0,0,1],[1,0,0,0,0,0,0,0,0,0,0,0,0,0,0,0,0,0,0,0,0,0,0,0,0,0,0,0,0,0,0,0,0,0,0,0,0,0,0,1],[1,0,0,0,0,0,0,0,0,0,0,0,0,0,0,0,0,0,0,0,0,0,0,0,0,0,0,0,0,0,0,0,0,0,0,0,0,0,0,1],[1,1,1,1,1,1,1,1,1,1,1,1,1,1,1,1,1,1,1,1,1,1,1,1,1,1,1,1,1,1,1,1,1,1,1,1,1,1,1,1]]},{"name":"decoration","width":40,"height":10,"linkWithCollision":false,"visible":1,"tilesetName":"media/kitchen-tiles.png","repeat":false,"preRender":false,"distance":"1","tilesize":64,"foreground":false,"data":[[0,0,0,0,0,0,0,0,0,0,0,0,0,0,0,0,0,0,0,0,0,0,0,0,0,0,0,0,0,0,0,0,0,0,0,0,0,0,0,0],[0,0,0,0,0,0,0,0,0,0,0,0,0,0,0,0,0,0,0,0,0,0,0,0,0,0,0,0,0,0,0,0,0,0,0,0,0,0,0,0],[0,0,0,0,0,0,0,0,0,0,0,0,0,0,0,0,0,0,0,0,0,0,0,0,0,0,0,0,0,0,0,0,0,0,0,0,0,0,0,0],[0,0,0,0,0,0,0,0,0,0,0,0,0,0,0,0,0,0,0,0,0,0,0,0,0,0,0,0,0,0,0,0,0,0,0,0,0,0,0,0],[0,0,0,0,0,0,0,0,0,0,0,0,0,0,0,0,0,0,0,0,0,0,0,0,0,0,0,0,0,0,0,0,0,0,0,0,0,0,0,0],[0,0,0,0,0,0,0,0,0,0,0,0,0,0,0,0,0,0,0,0,0,0,0,0,0,0,0,0,0,0,0,0,0,0,0,0,0,0,0,0],[0,0,0,0,0,0,0,0,0,0,0,0,182,185,184,185,182,185,183,0,0,0,0,0,0,0,0,0,0,0,0,0,0,0,0,0,0,0,0,0],[0,0,0,0,0,0,0,0,0,0,0,0,0,0,170,0,0,0,0,0,0,0,0,0,0,0,0,178,0,0,0,0,0,0,0,0,0,0,0,0],[0,0,0,0,0,0,172,0,174,175,0,0,181,180,180,180,180,180,180,0,176,177,0,0,0,0,0,0,0,0,0,0,0,0,0,0,0,0,0,0],[0,0,0,0,0,0,0,0,0,0,0,0,0,0,0,0,0,0,0,0,0,0,0,0,0,0,0,0,0,0,0,0,0,0,0,0,0,0,0,0]]}]}/*]JSON*/;
 LevelKitchen1Resources=[new ig.Image('media/kitchen-tiles.png'), new ig.Image('media/kitchen-tiles.png')];
 });

diff --git a/lib/game/entities/trigger.js b/lib/game/entities/trigger.js
@@ -35,7 +35,7 @@ EntityTrigger = ig.Entity.extend({
 	_wmBoxColor: 'rgba(196, 255, 0, 0.7)',
 	
 	target: null,
-	wait: -1,
+	wait: 0,
 	waitTimer: null,
 	canFire: true,
 	
